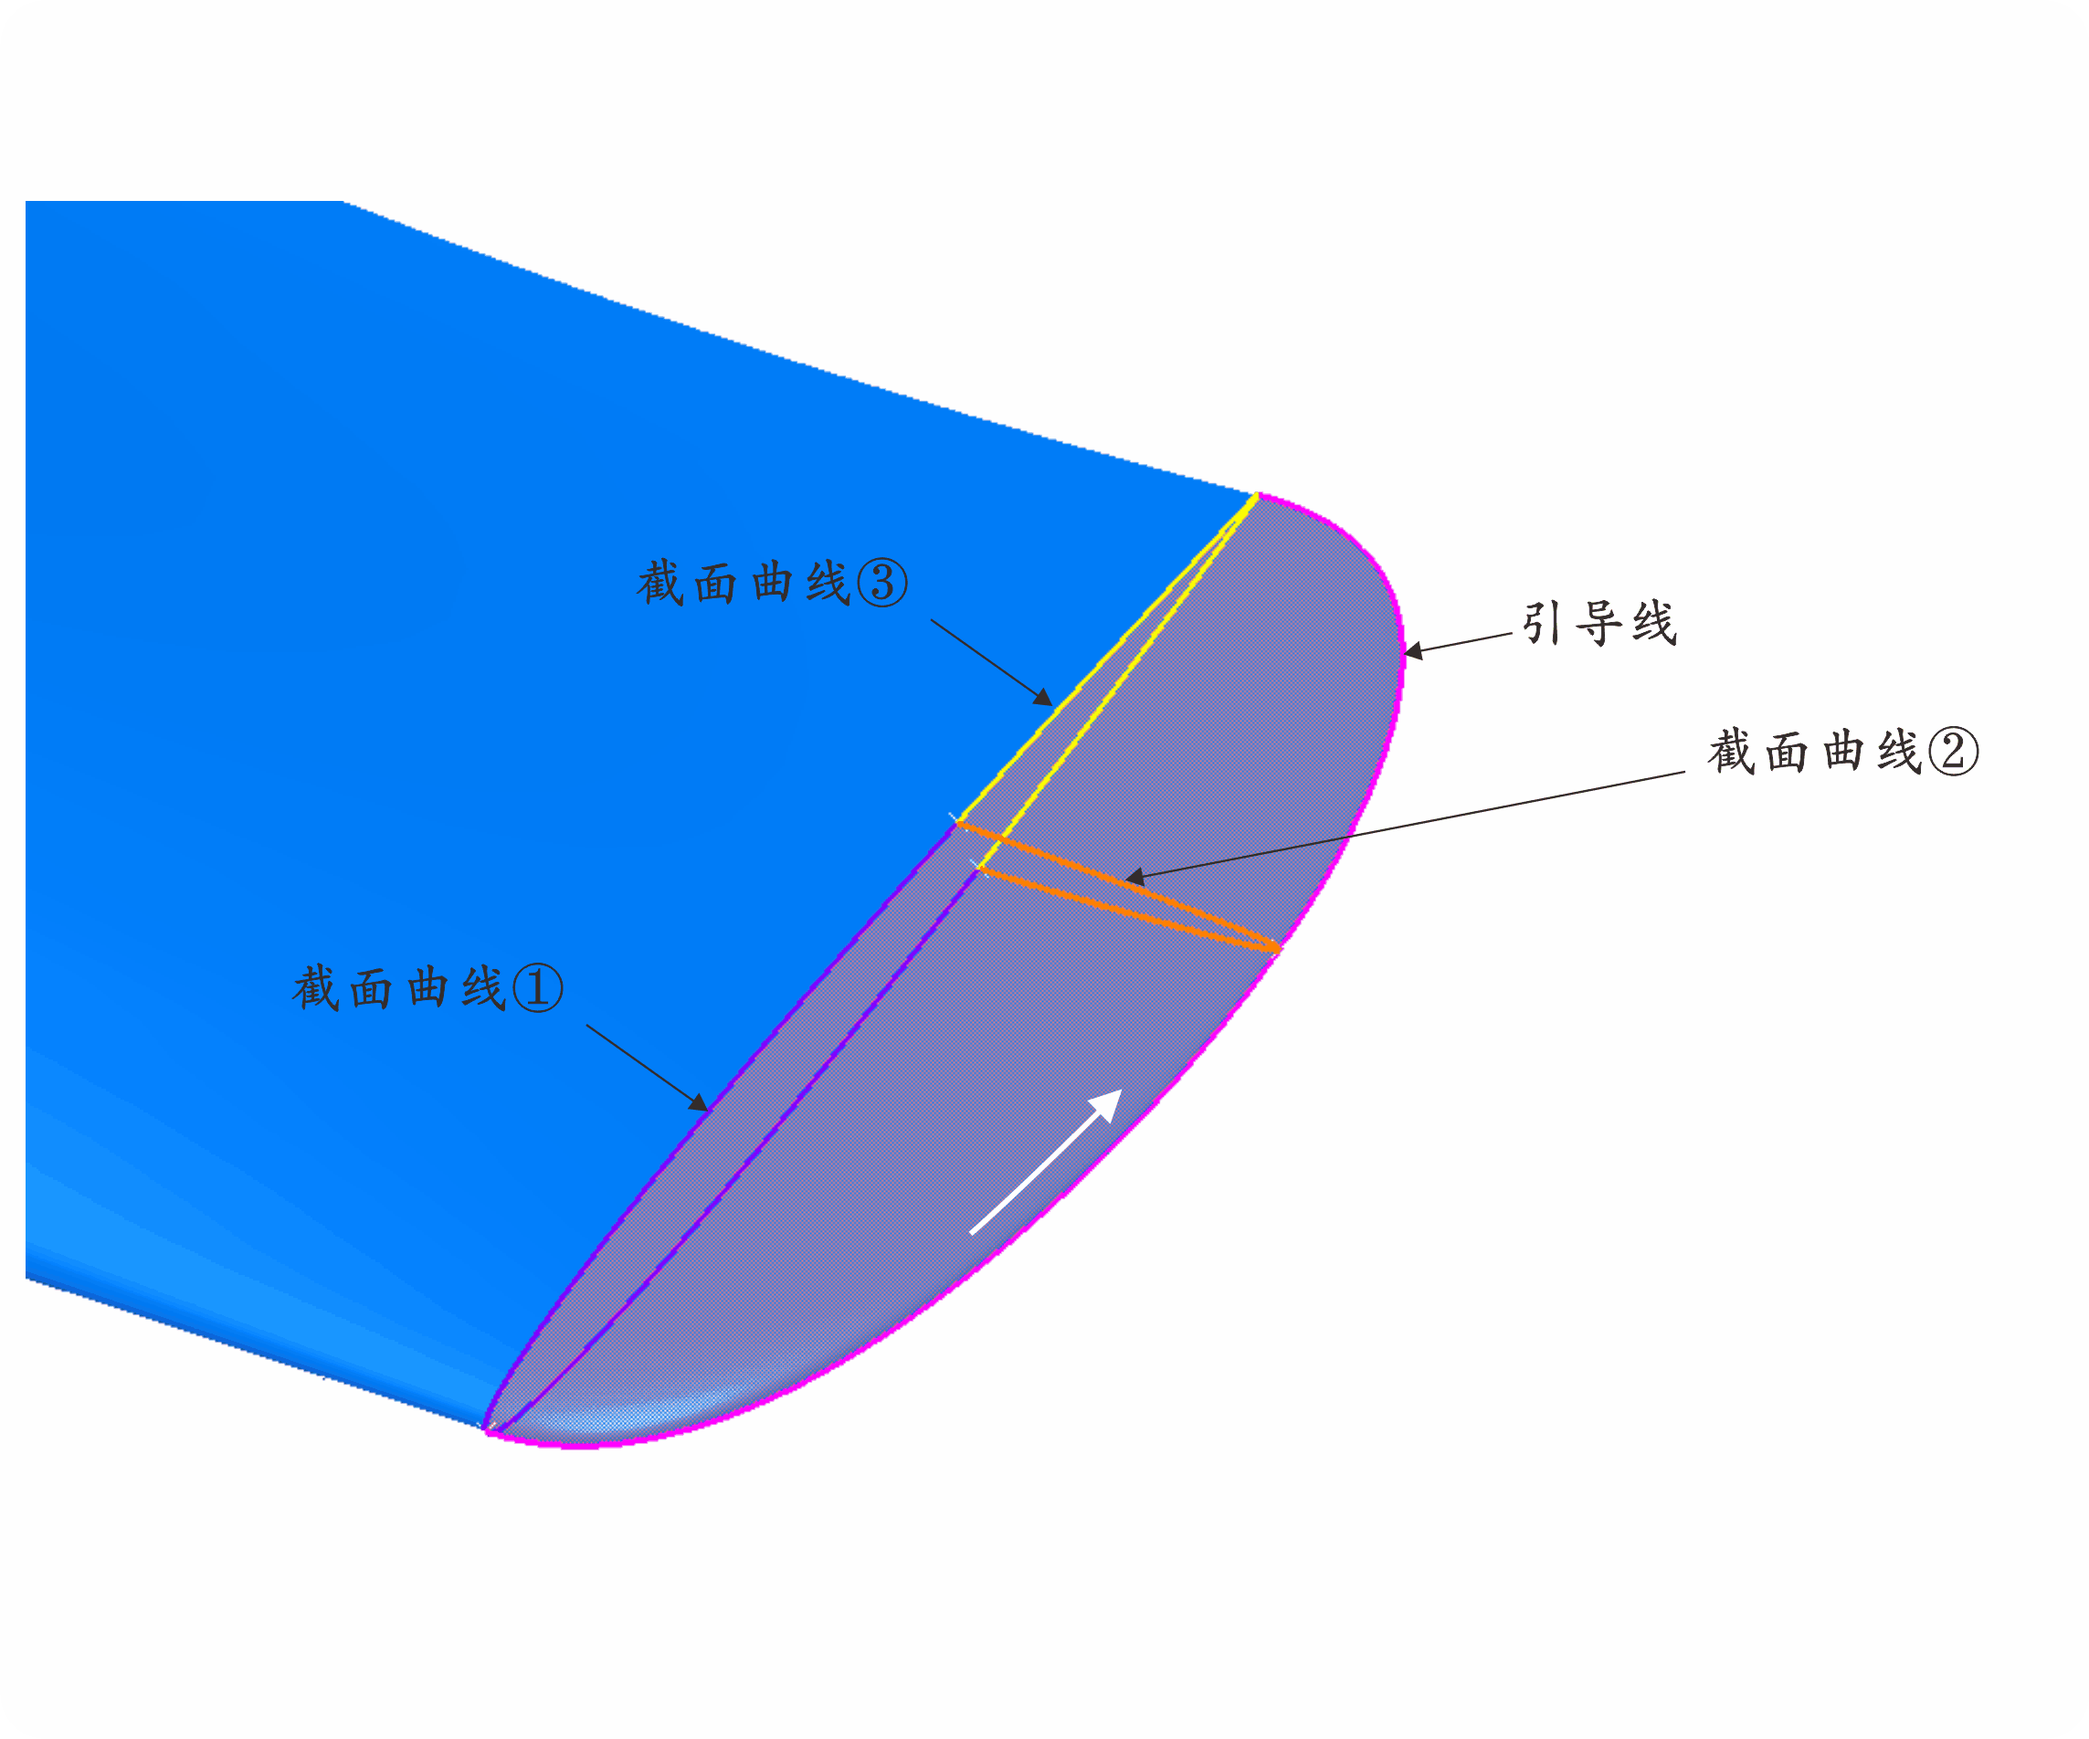
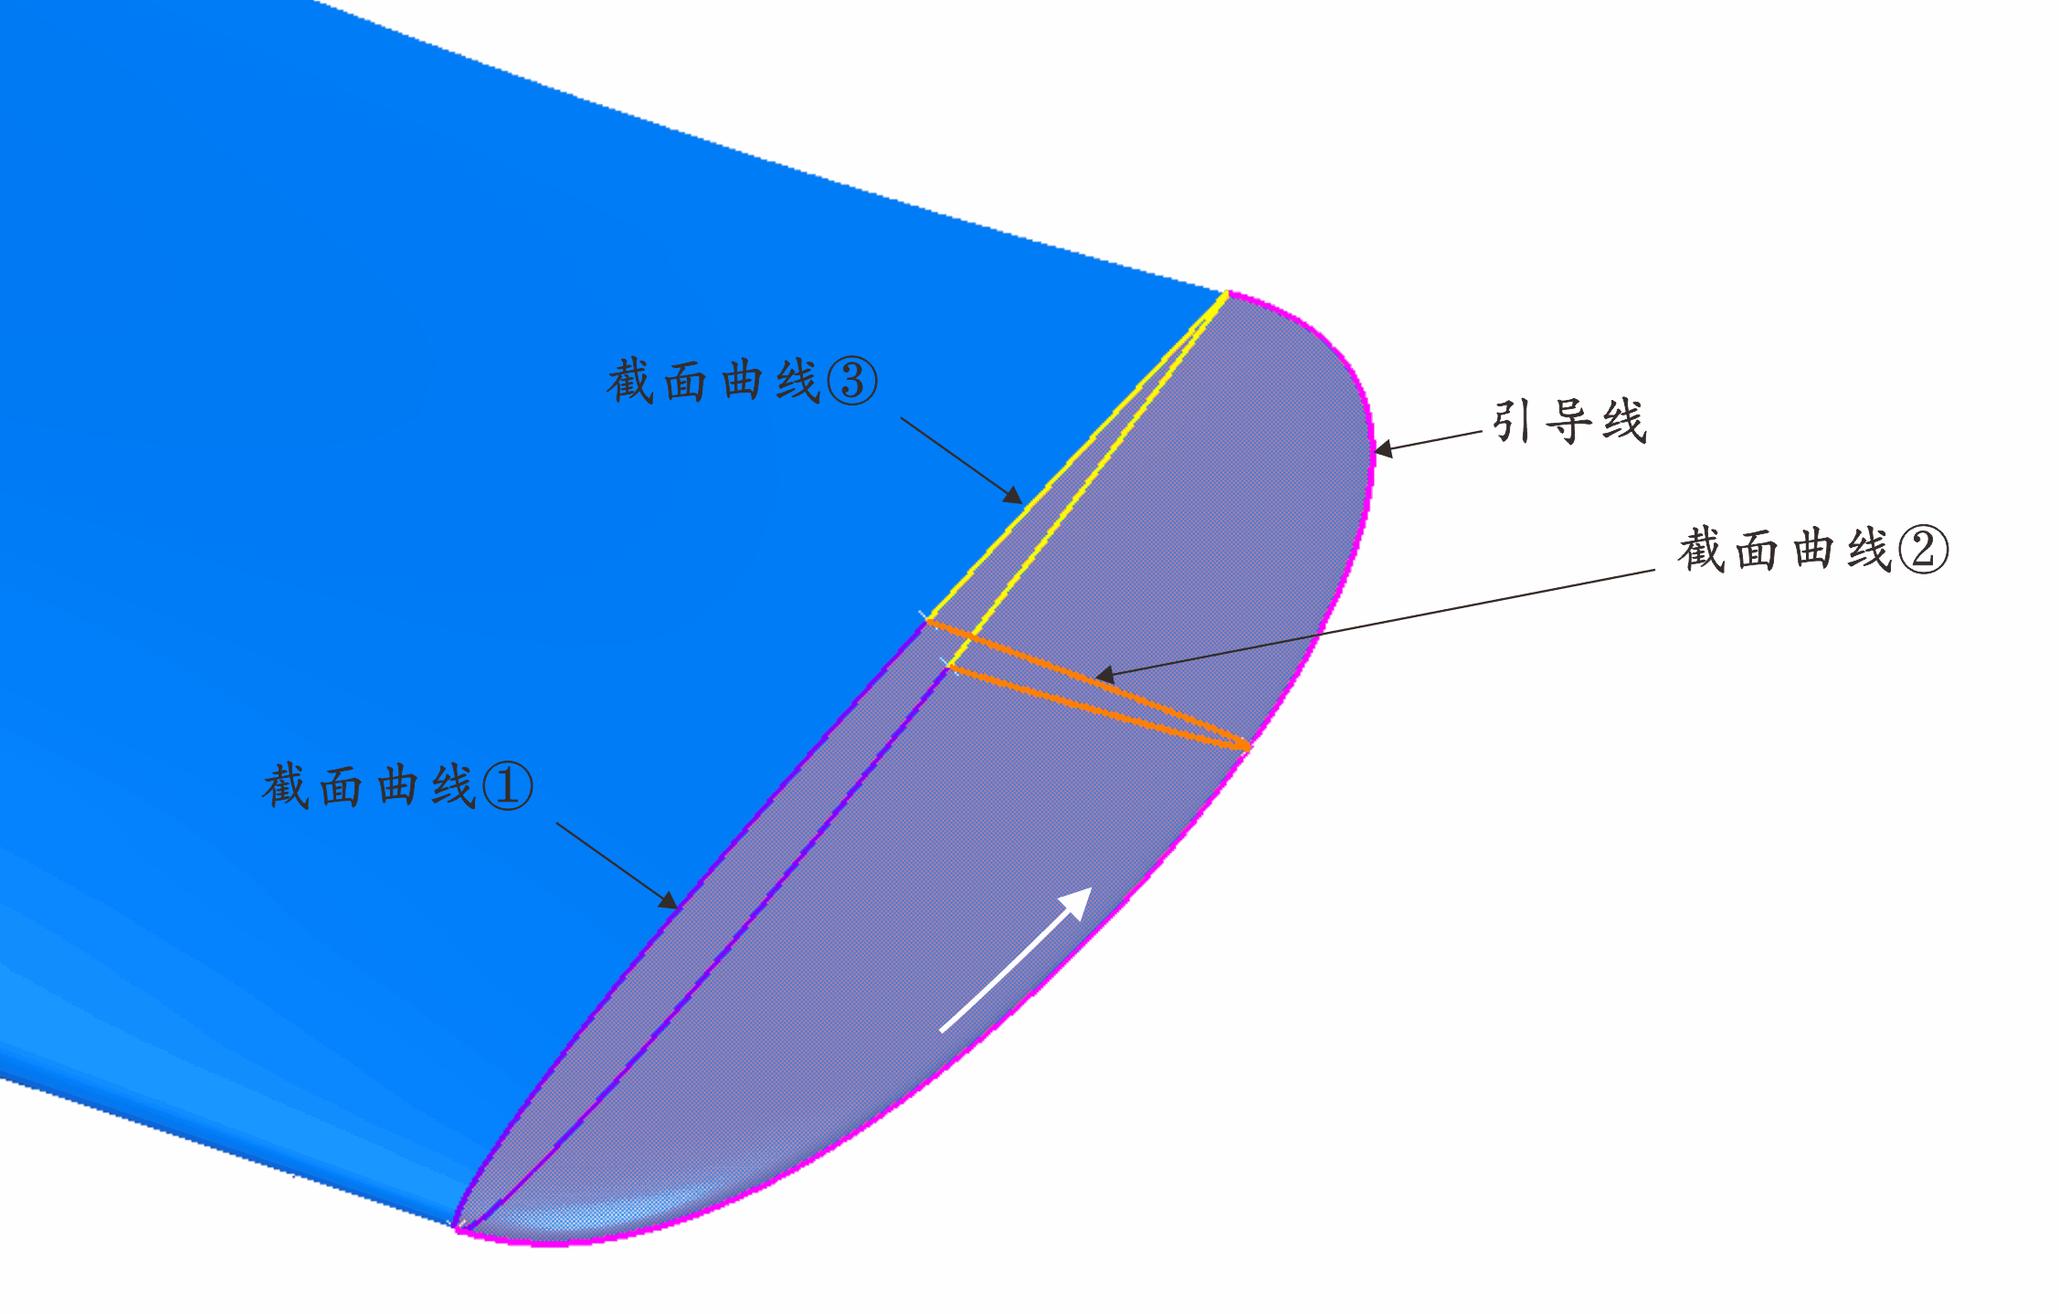
post

diff --git a/_posts/2022-7-1-CATIA飞机建模.md b/_posts/2022-7-1-CATIA飞机建模.md
@@ -45,7 +45,11 @@ pIdentifier: 中文缩进
 
 ## 绘制机翼主体
 
-1. 将导入并用曲线拟合好的翼型，根据设计图，进行`平移、旋转、缩放`等操作，使他们位于正确位置；
+1. 将导入并用曲线拟合好的翼型，根据设计图，进行`平移、旋转、缩放`等操作，使他们位于正确位置：
+   1. **上下反角**：通过翼型`上下平移`实现；
+   2. **前后掠角**：通过翼型`前后平移`实现；
+   3. **扭转角**：通过翼型`旋转`实现；
+   4. **调整机翼前后缘线**：通过翼型`缩放+前后移动`实现；
 2. 用`样条线`连接各翼型的前、后缘点，作为机翼前后缘引导线； 
 3. 应用`多截面曲线`。
 
